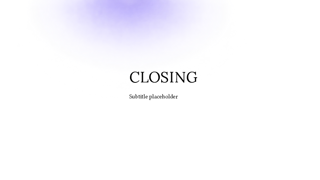
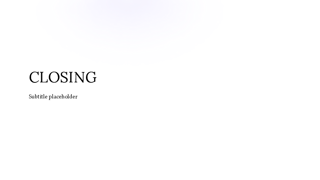
fix(templates): balance native modern closing composition

diff --git a/internal/generator/modern_closing_style_test.go b/internal/generator/modern_closing_style_test.go
@@ -47,17 +47,32 @@ func TestModernClosingPreservesNativeStylesAndGroupedText(t *testing.T) {
 				shape = attrs["name"]
 				found[shape] = true
 			}
+			if shape == "Picture 7" && start.Name.Local == "alphaModFix" {
+				checked["art opacity"] = true
+				if attrs["amt"] != "15000" {
+					t.Error("Closing artwork opacity differs from the blind-reviewed revision")
+				}
+			}
 			if shape != "title" && shape != "subtitle" {
 				continue
 			}
 			if start.Name.Local == "ext" && parent == "xfrm" {
 				checked[shape+" width"] = true
-				want := "6500000"
+				want := "10330857"
 				if shape == "subtitle" {
 					want = "4800000"
 				}
 				if attrs["cx"] != want {
 					t.Errorf("%s width=%s; want %s", shape, attrs["cx"], want)
+				}
+			}
+			if start.Name.Local == "off" && parent == "xfrm" {
+				checked[shape+" x"] = true
+				if attrs["x"] != "1000000" {
+					t.Errorf("%s left edge does not match the reviewed aligned group", shape)
+				}
+				if shape == "title" && attrs["y"] != "1500000" {
+					t.Error("native title vertical position changed")
 				}
 			}
 			if shape == "subtitle" && start.Name.Local == "bodyPr" {
@@ -83,7 +98,7 @@ func TestModernClosingPreservesNativeStylesAndGroupedText(t *testing.T) {
 				}
 			}
 		}
-		for _, field := range []string{"title width", "subtitle width", "subtitle anchor", "subtitle y", "title size", "subtitle size"} {
+		for _, field := range []string{"title width", "subtitle width", "title x", "subtitle x", "subtitle anchor", "subtitle y", "title size", "subtitle size", "art opacity"} {
 			if !checked[field] {
 				t.Errorf("missing native %s", field)
 			}
@@ -115,8 +130,15 @@ func TestModernClosingPreservesNativeStylesAndGroupedText(t *testing.T) {
 				t.Fatal(err)
 			}
 			check(output)
-			if !strings.Contains(readZipFileString(t, output, "ppt/slides/slide1.xml"), title) {
+			slide := readZipFileString(t, output, "ppt/slides/slide1.xml")
+			if !strings.Contains(slide, title) {
 				t.Fatal("required title was lost or mutated")
+			}
+			if !strings.Contains(slide, "Internal review of service delivery, ownership and reporting requirements") {
+				t.Fatal("required subtitle was lost or mutated")
+			}
+			if strings.Contains(slide, `sz="4050"`) {
+				t.Fatal("reviewed wider native title still shrinks below its 45pt default")
 			}
 		})
 	}

diff --git a/internal/template/closing_geometry_test.go b/internal/template/closing_geometry_test.go
@@ -51,7 +51,7 @@ func TestModernClosingPreservesSubtitleWithoutStrayRule(t *testing.T) {
 	}
 	// The reviewed composition repair groups the subtitle with the title and
 	// narrows its measure; retain native 18pt styling and editable placeholder.
-	want := types.BoundingBox{X: 4830857, Y: 3450000, Width: 4800000, Height: 1200000}
+	want := types.BoundingBox{X: 1000000, Y: 3450000, Width: 4800000, Height: 1200000}
 	if subtitle.Bounds != want || subtitle.FontSize != 1800 {
 		t.Fatalf("native subtitle changed: bounds=%+v size=%d, want %+v at 18pt", subtitle.Bounds, subtitle.FontSize, want)
 	}
